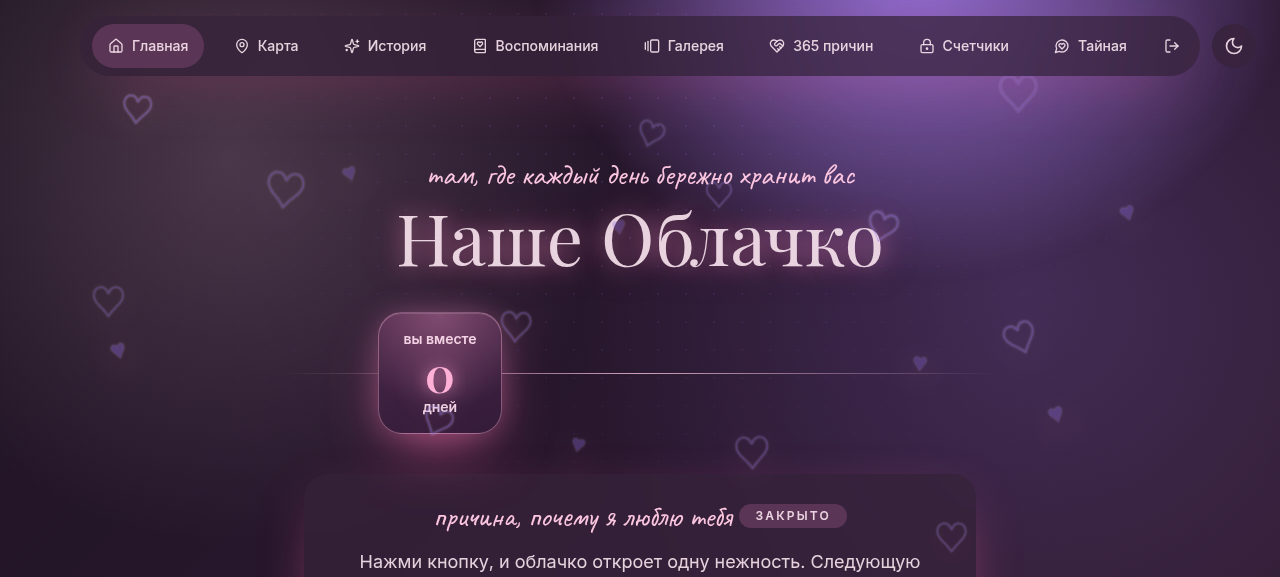
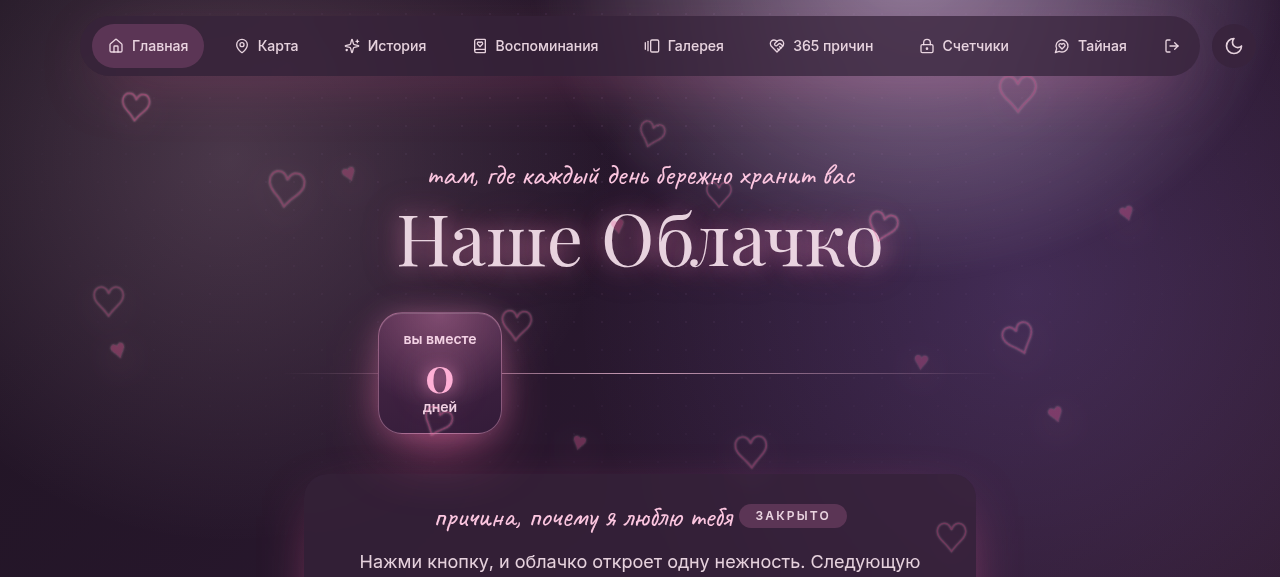
feat: update seasonal color themes and images

diff --git a/src/app/globals.css b/src/app/globals.css
@@ -48,42 +48,6 @@
   --season-pattern: rgba(180, 140, 200, 0.18);
 }
 
-/* Весна (март–май): свежие зелёные акценты. */
-:root[data-season="spring"] {
-  --season-glow-a: rgba(255, 200, 226, 0.55);
-  --season-glow-warm: rgba(150, 224, 150, 0.85);
-  --season-glow-cool: rgba(190, 235, 165, 0.8);
-  --season-pattern: rgba(90, 180, 110, 0.32);
-  --season-heart: #6bbf59;
-}
-
-/* Лето (июнь–август): тёплое золото и персик. */
-:root[data-season="summer"] {
-  --season-glow-a: rgba(255, 190, 150, 0.7);
-  --season-glow-warm: rgba(255, 205, 70, 0.9);
-  --season-glow-cool: rgba(255, 165, 120, 0.85);
-  --season-pattern: rgba(255, 150, 50, 0.34);
-  --season-heart: #ff8a3d;
-}
-
-/* Осень (сентябрь–ноябрь): терракота и тёплый оранжевый. */
-:root[data-season="autumn"] {
-  --season-glow-a: rgba(230, 130, 80, 0.7);
-  --season-glow-warm: rgba(220, 90, 50, 0.85);
-  --season-glow-cool: rgba(240, 150, 70, 0.85);
-  --season-pattern: rgba(190, 75, 40, 0.34);
-  --season-heart: #d85a2c;
-}
-
-/* Зима (декабрь–февраль): прохладная сирень и фиолетовые блики. */
-:root[data-season="winter"] {
-  --season-glow-a: rgba(200, 200, 245, 0.65);
-  --season-glow-warm: rgba(160, 120, 230, 0.8);
-  --season-glow-cool: rgba(200, 190, 245, 0.85);
-  --season-pattern: rgba(130, 95, 200, 0.32);
-  --season-heart: #8f6be0;
-}
-
 :root[data-theme="night"] {
   color-scheme: dark;
 }
